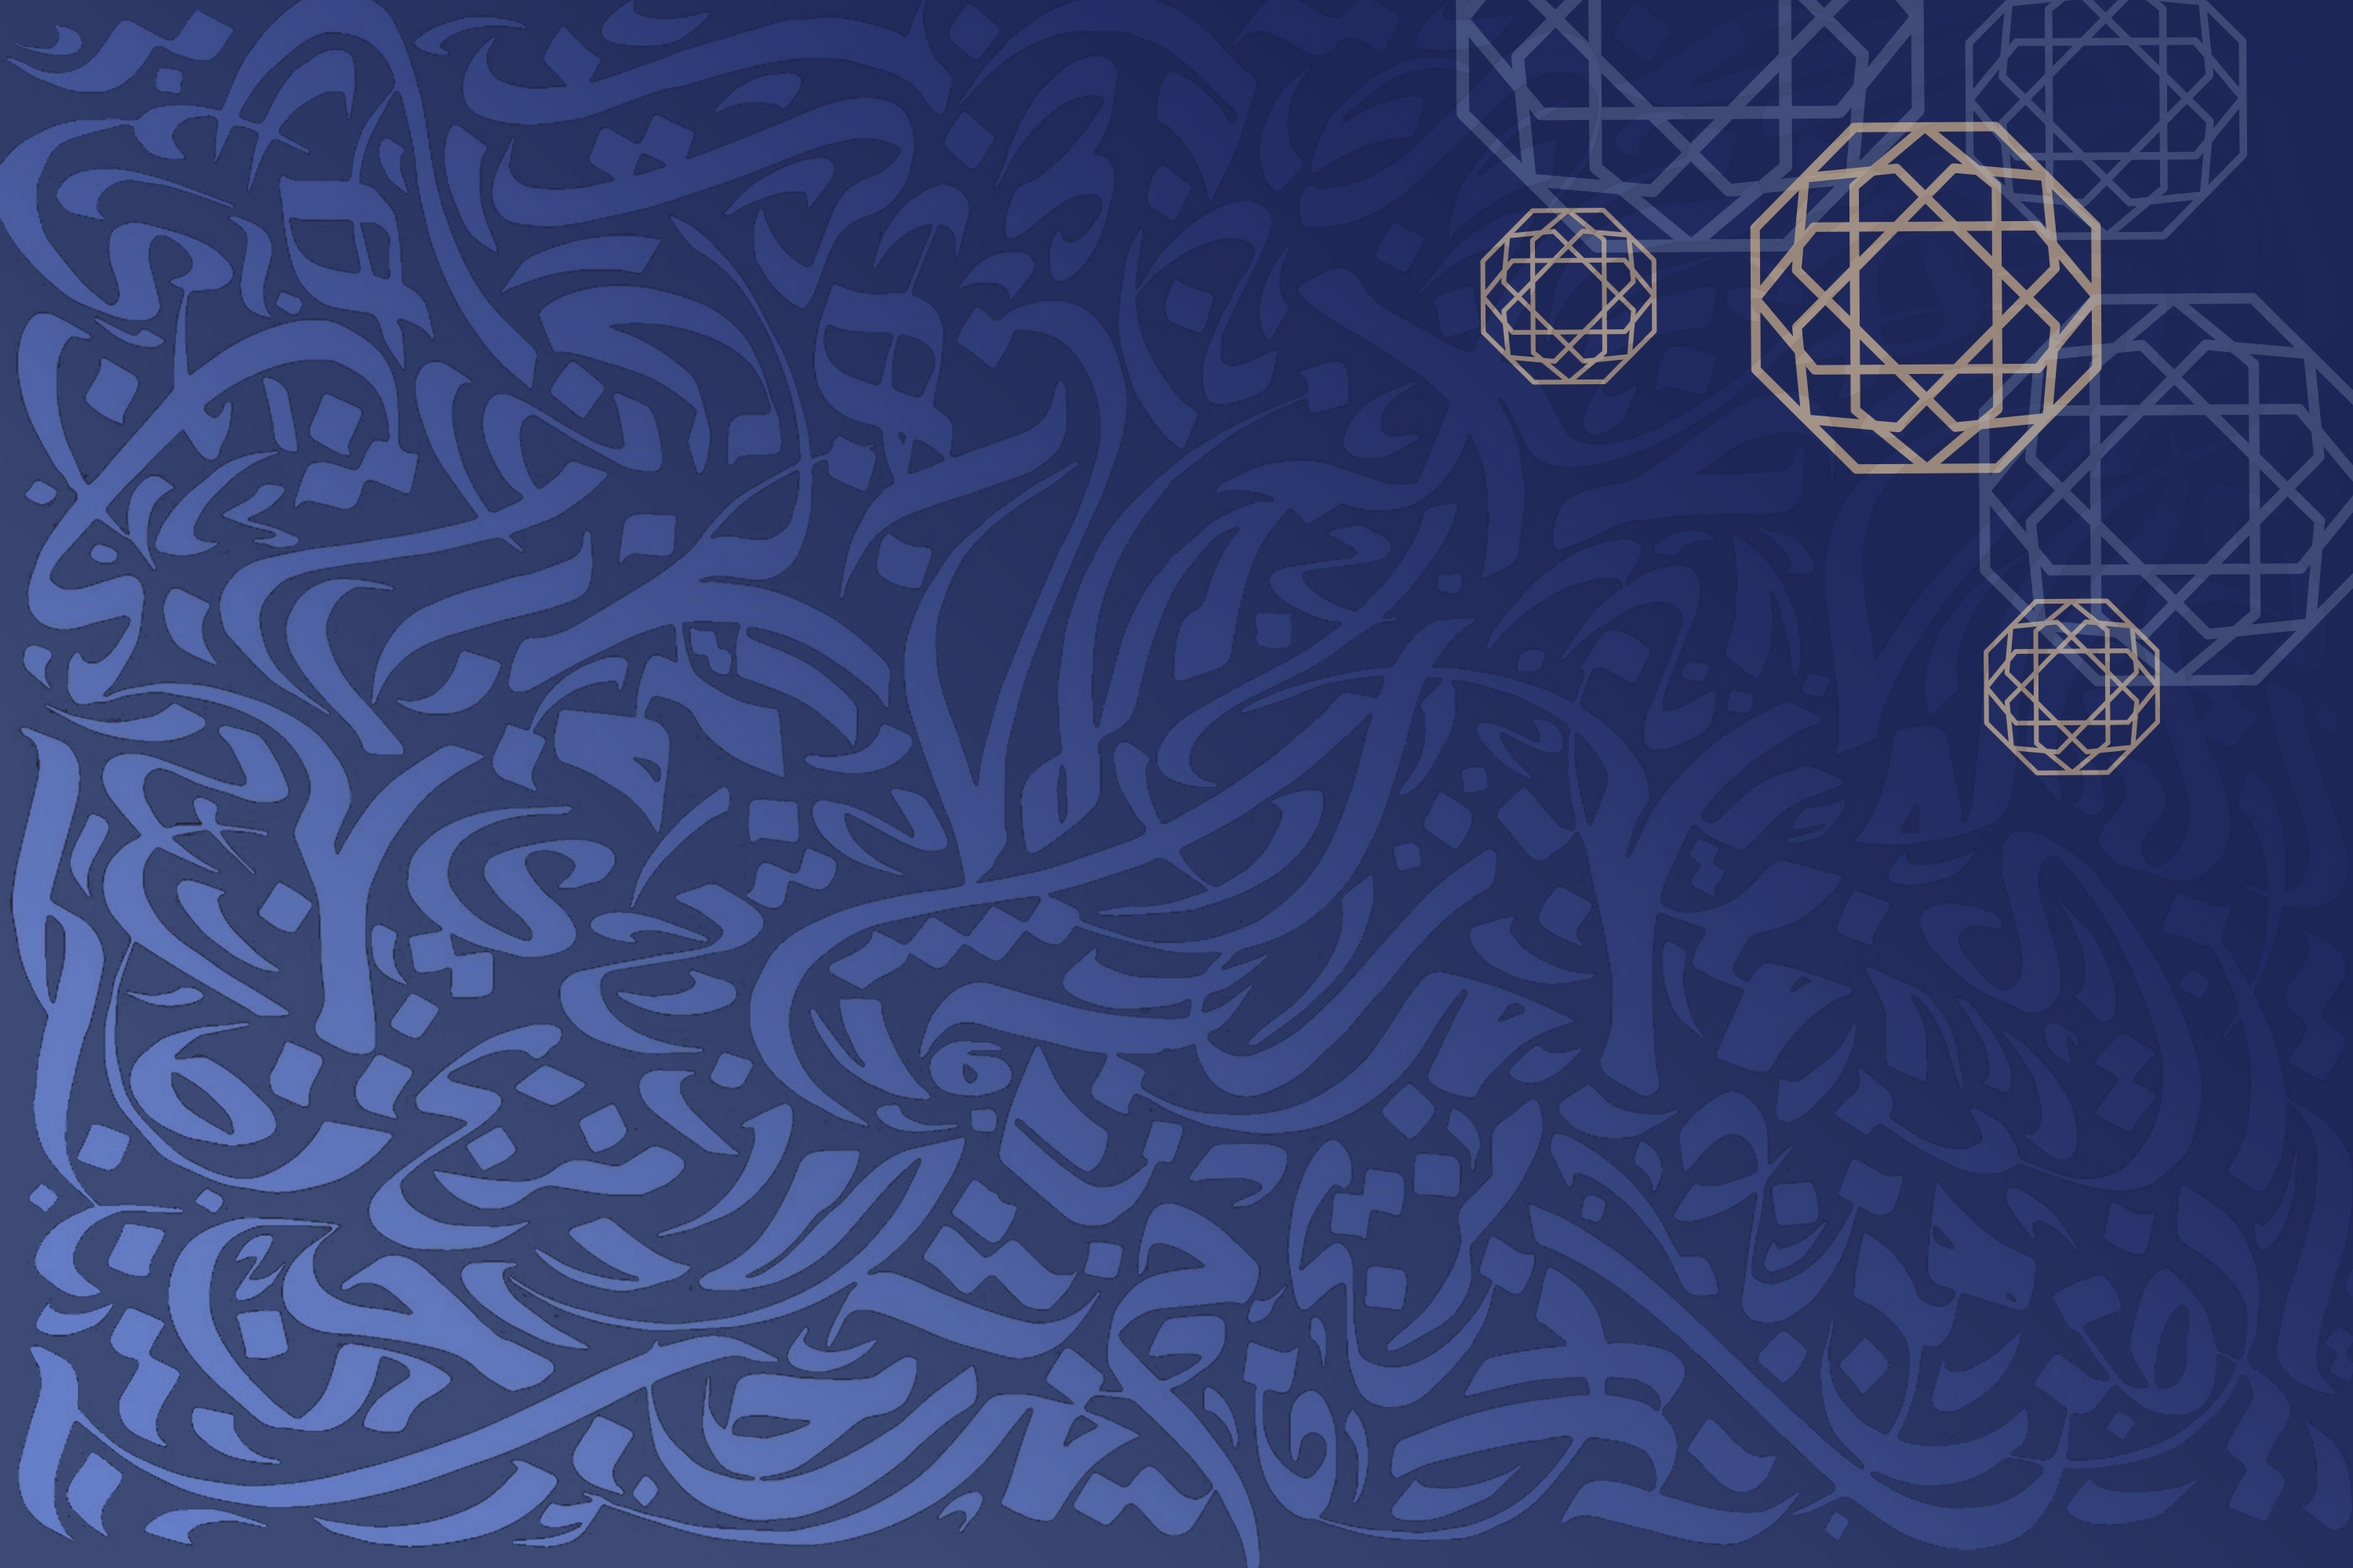
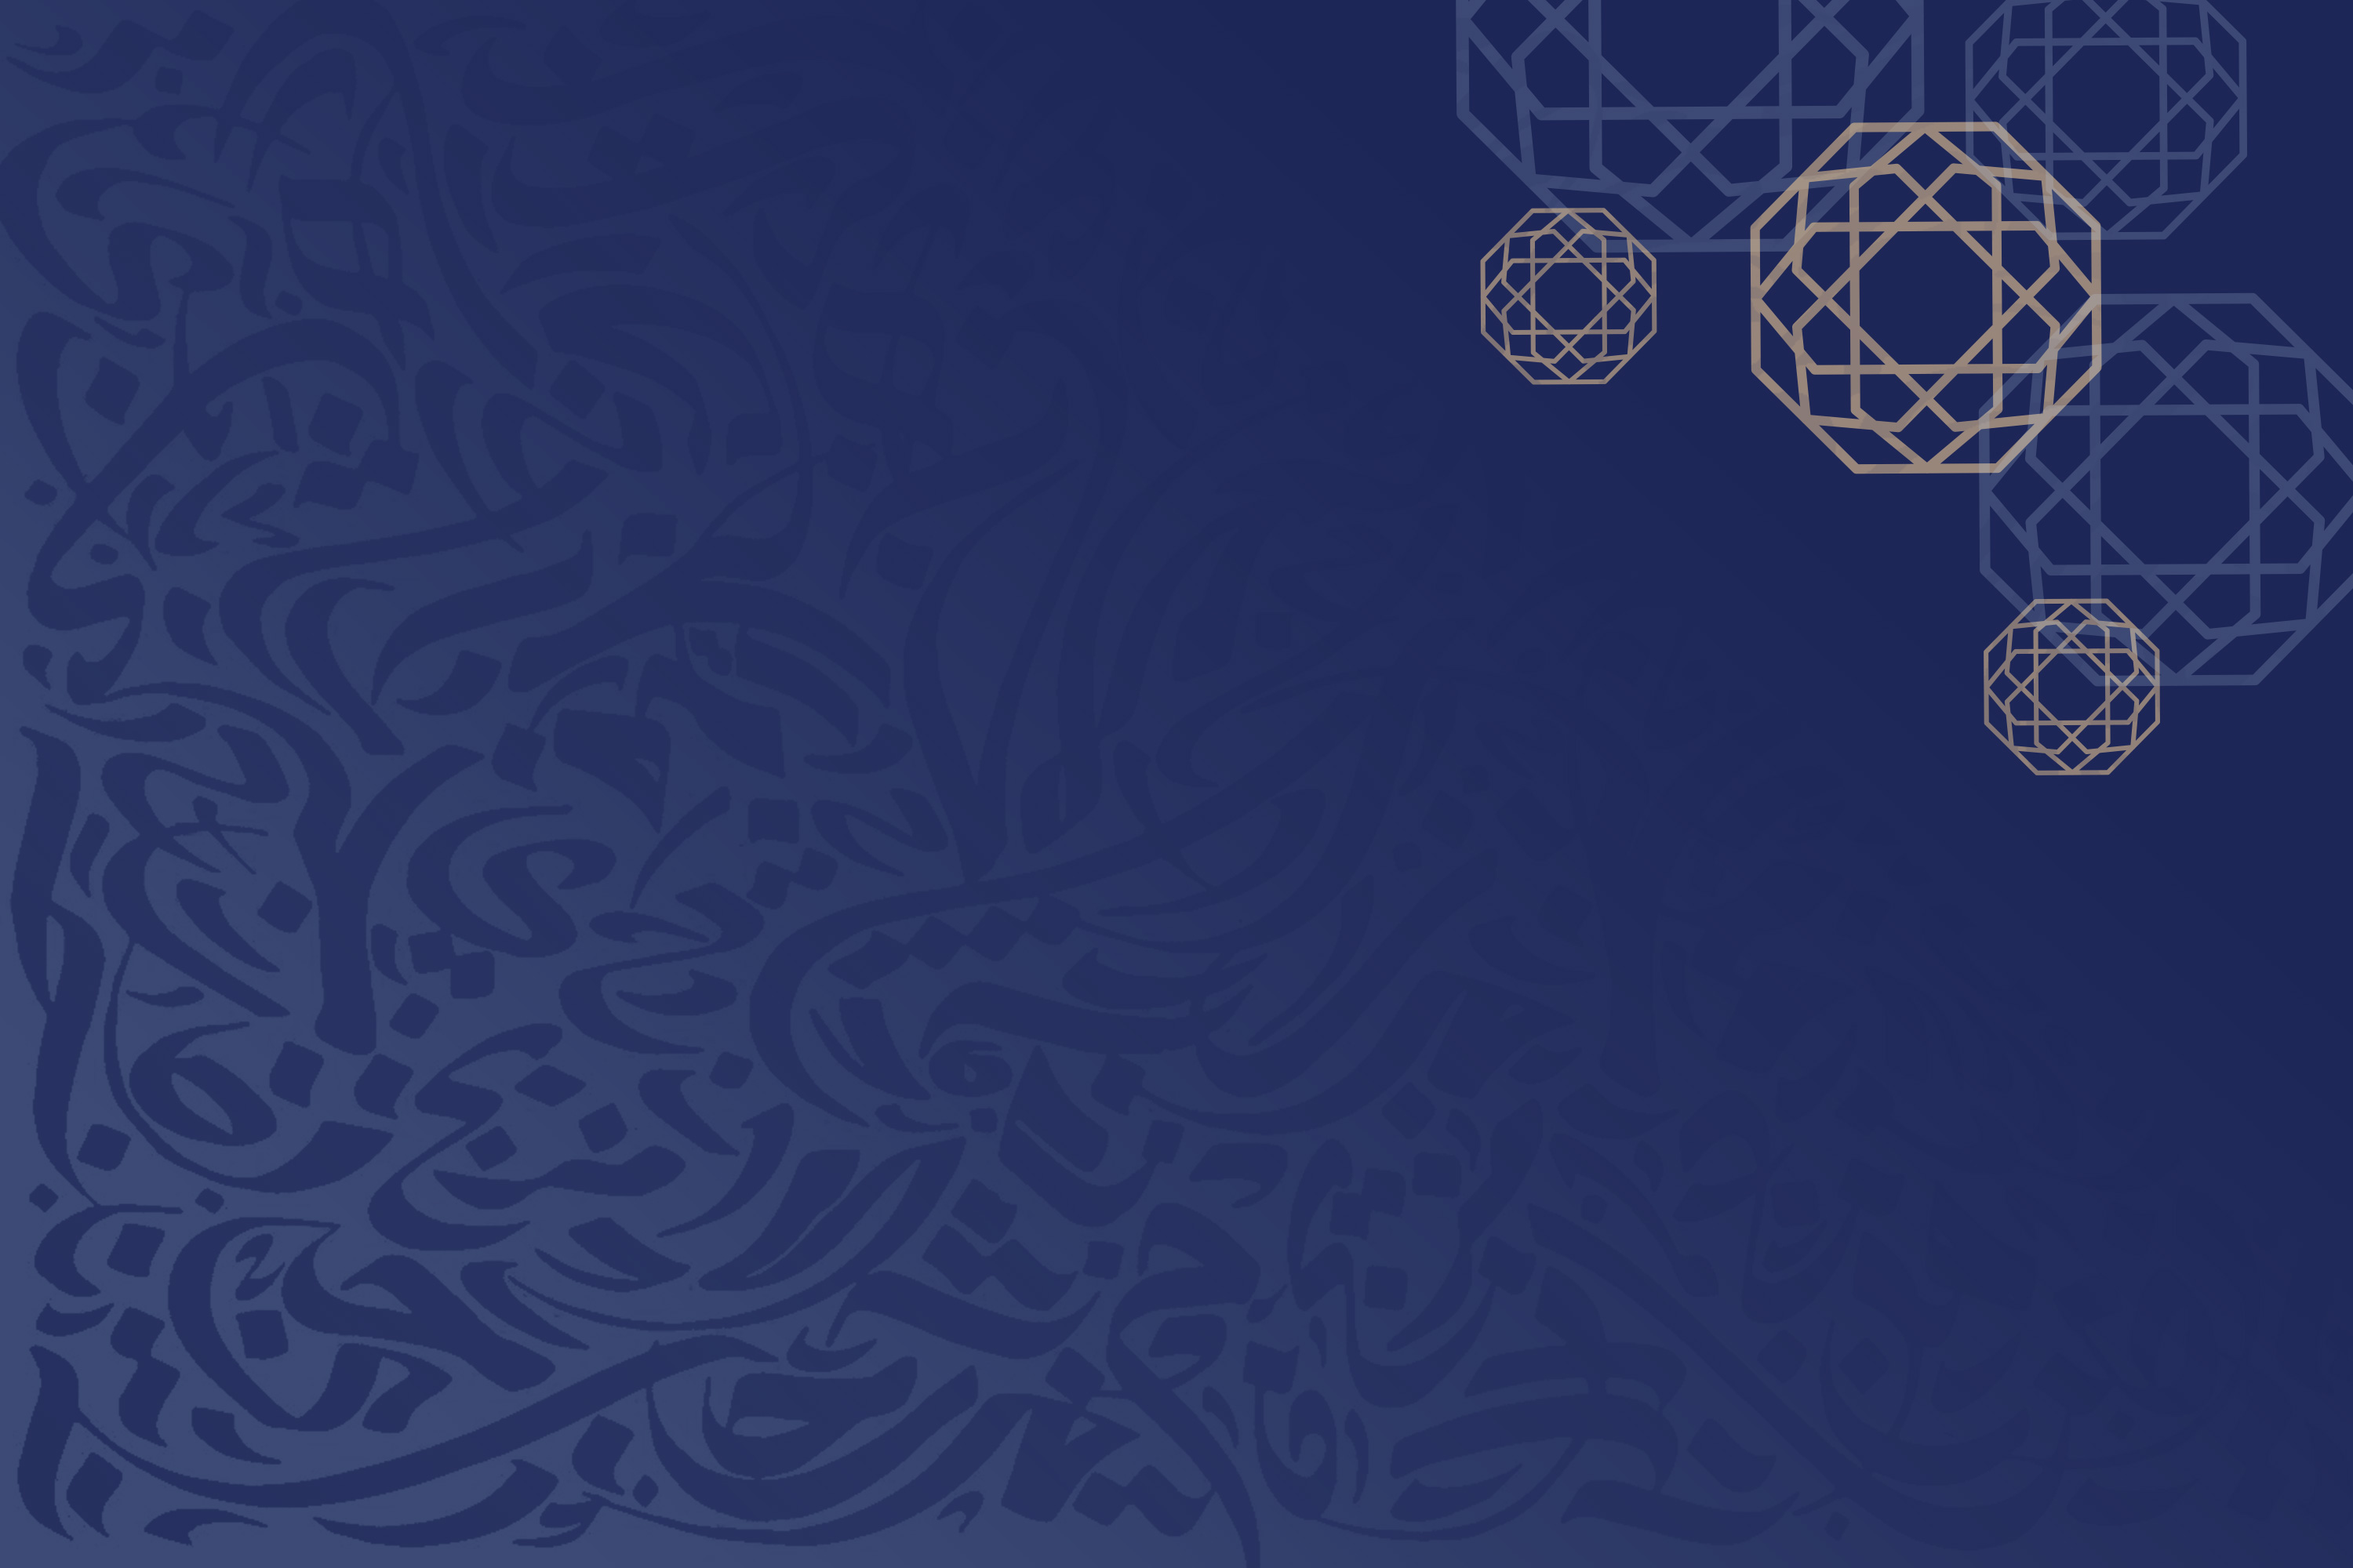
Stay Tuned page

diff --git a/css/StayTuned.css b/css/StayTuned.css
@@ -1,0 +1,198 @@
+#stay-tuned {
+    height: 140vh; 
+    display: flex; 
+    justify-content: center;
+    flex-direction: column;
+    column-gap: 2rem;
+}
+
+.container {
+    margin-top: 5%;
+}
+#stay-tuned h1 { 
+    font-weight: bolder;
+    color:aliceblue;
+    font-family: Rubik;
+    font-size: 11vh;
+    margin-bottom: 0vh;
+}
+#countdown {
+    color:aliceblue;
+     font-family: Rubik;
+     font-size: 9vh;
+     margin-bottom: 10vh;
+}
+
+.col-md-6 {
+    scale: 1.5;
+}
+
+.btnR {
+    display: inline-block;
+    font-family: inherit;
+    font-size: 1rem;
+    font-weight: 500;
+    line-height: 1.5;
+    text-align: center;
+    vertical-align: middle;
+    white-space: nowrap;
+    user-select: none;
+    outline: none;
+    border: none;
+    border-radius: 0.25rem;
+    text-transform: unset;
+    height: 10vw;
+    overflow: hidden;
+    padding: 0;
+    width: 15vw;
+    height: 7vh;
+    border-radius: 7vh;
+    background-color: #225c97;
+    transition: all .2s;
+    margin-top: 1vh;
+    margin-bottom: 4vh;
+}
+
+.image-row .col-md-6 {
+    margin-left: 100vh; 
+}
+
+
+.btnR .textR {
+	transition: all .2s;
+	color: #fff;
+}
+
+.btnR:hover {
+	background-color: #cdd9e4;
+	color: #000;
+}
+
+.btnR:hover .textR {
+	transform: translateX(5px) scale(1.1);
+	color: black;
+}
+
+.textR {
+	position: absolute;
+	display: flex;
+	align-items: center;
+}
+
+.btnR-inline {
+	display: inline-flex;
+	align-items: center;
+	justify-content: center;
+	column-gap: 0.5rem;
+}
+
+
+:root {
+	--bg: #e3e4e8;
+	--fg: #2e3138;
+	--primary: #255ff4;
+}
+
+#remindertext {
+    color: #fff;
+}
+.hourglass, .hourglass:before, .hourglass:after {
+	animation-duration: 2s;
+	animation-iteration-count: infinite;
+}
+.hourglass {
+	--polygonH: polygon(0% 0%,100% 0%,100% 5.55%,95% 5.55%,95% 28%,60% 46%,60% 54%,95% 72%,95% 94.45%,100% 94.45%,100% 100%,0% 100%,0% 94.45%,5% 94.45%,5% 72%,40% 54%,40% 46%,5% 28%,5% 5.55%,0% 5.55%);
+	animation-name: flip;
+	animation-timing-function: ease-in-out;
+	background-image: linear-gradient(var(--primary) 0.5em,#737a8c55 0.5em 8.5em,var(--primary) 8.5em);
+	clip-path: var(--polygonH);
+	-webkit-clip-path: var(--polygonH);
+	overflow: hidden;
+	position: relative;
+	width: 5em;
+	height: 9em;
+	z-index: 0;
+    margin: 0 auto;
+}
+.hourglass:before, .hourglass:after {
+	animation-timing-function: linear;
+	content: "";
+	display: block;
+	position: absolute;
+}
+.hourglass:before {
+	--polygonB1: polygon(0% 0%,100% 0%,100% 24%,50% 47%,50% 47%,50% 47%,50% 47%,50% 47%,50% 47%,50% 47%,50% 47%,0% 24%);
+	--polygonB2: polygon(0% 4%,100% 4%,100% 24%,55% 45%,55% 100%,55% 100%,55% 100%,45% 100%,45% 100%,45% 100%,45% 45%,0% 24%);
+	--polygonB3: polygon(0% 24%,100% 24%,100% 24%,55% 45%,55% 80%,100% 100%,100% 100%,0% 100%,0% 100%,45% 80%,45% 45%,0% 24%);
+	--polygonB4: polygon(45% 45%,55% 45%,55% 45%,55% 45%,55% 58%,100% 76%,100% 100%,0% 100%,0% 76%,45% 58%,45% 45%,45% 45%);
+	--polygonB5: polygon(50% 53%,50% 53%,50% 53%,50% 53%,50% 53%,100% 76%,100% 100%,0% 100%,0% 76%,50% 53%,50% 53%,50% 53%);
+	animation-name: fill;
+	background-color: var(--fg);
+	background-size: 100% 3.6em;
+	clip-path: var(--polygonB1);
+	-webkit-clip-path: var(--polygonB1);
+	top: 0.5em;
+	left: 0.5em;
+	width: 4em;
+	height: 8em;
+	z-index: 1;
+}
+.hourglass:after {
+	animation-name: glare;
+	background:
+		linear-gradient(90deg,#0000 0.5em,#0003 0.5em 1.5em,#0000 1.5em 3.5em,#fff3 3.5em 4.5em,#fff0 4.5em 6.5em,#0003 6.5em 7.5em,#0000 7.5em) 0 0 / 100% 0.5em,
+		linear-gradient(90deg,#0000 0.75em,#0003 0.75em 1.25em,#0000 1.25em 3.75em,#fff3 3.75em 4.25em,#fff0 4.25em 6.75em,#0003 6.75em 7.25em,#0000 7.25em) 0 0.5em / 100% 8em,
+		linear-gradient(90deg,#0000 0.5em,#0003 0.5em 1.5em,#0000 1.5em 3.5em,#fff3 3.5em 4.5em,#fff0 4.5em 6.5em,#0003 6.5em 7.5em,#0000 7.5em) 0 100% / 100% 0.5em;
+	background-repeat: repeat-x;
+	top: 0;
+	left: -3em;
+	width: 200%;
+	height: 100%;
+	z-index: 2;
+}
+/* Animations */
+@keyframes fill {
+	from {
+		clip-path: var(--polygonB1);
+		-webkit-clip-path: var(--polygonB1);
+	}
+	10% {
+		clip-path: var(--polygonB2);
+		-webkit-clip-path: var(--polygonB2);
+	}
+	45% {
+		clip-path: var(--polygonB3);
+		-webkit-clip-path: var(--polygonB3);
+	}
+	80% {
+		clip-path: var(--polygonB4);
+		-webkit-clip-path: var(--polygonB4);
+	}
+	85%, to {
+		clip-path: var(--polygonB5);
+		-webkit-clip-path: var(--polygonB5);
+	}
+}
+@keyframes glare {
+	from, 90% {
+		transform: translateX(0);
+	}
+	to {
+		transform: translateX(3em);
+	}
+}
+@keyframes flip {
+	from, 90% {
+		transform: rotate(0);
+	}
+	to {
+		transform: rotate(180deg);
+	}
+}
+/* Dark mode */
+@media (prefers-color-scheme: dark) {
+	:root {
+		--bg: #17181c;
+		--fg: #c7cad1;
+	}
+}

diff --git a/index.html b/index.html
@@ -39,6 +39,7 @@
     <link rel="stylesheet" href="./css/sponsors.css">
     <link rel="stylesheet" href="./css/aboutus.css">
     <link rel="stylesheet" href="./css/pre.css">
+    <link rel="stylesheet" href="./css/StayTuned.css">
     <link href='https://unpkg.com/boxicons@2.1.4/css/boxicons.min.css' rel='stylesheet'>
 </head>
 
@@ -49,7 +50,7 @@
     <section id="Navbar">
         <header class="header1" id="header">
             <nav class="navbar1 container1">
-                <a href="./index.html" class="brand1"><img style="filter: invert(); transform: scale(.6)" src="./assets/images/navlog.png"></a>
+                <a href="./index.html" class="brand1"><img style="transform: scale(.6)" src="./assets/images/navlog.png"></a>
                 <div class="burger1 nav-toggle" id="burger">
                     <span class="burger1-line"></span>
                     <span class="burger1-line"></span>
@@ -209,7 +210,39 @@
 
 
     <!-- Stay Tuned HERE -->
-       
+    <section id="stay-tuned" style="background: url(./assets/images/site.jpg); background-size: cover;">
+        <div class="container text-center">
+            <h1>Stay Tuned...</h1>
+            <div class="hourglass" style="scale: 0.7;"></div>
+            <div id="countdown" class="mb-4"></div>
+            <div class="row justify-content-center align-items-center">
+                <div class="col-md-6">
+                    <h4 id="remindertext" class="d-inline-block mb-3">Fill this form to get reminders for the event</h4>
+                    <a href="https://docs.google.com/forms/d/e/1FAIpQLSdxldmnl_BZ_8JDX3B47-x0YyYrdsrkbKBGEECpuya5zUdmxg/viewform?usp=sf_link" target="_blank" class="d-inline-block ml-3">
+                        <button class="btnR btnR-darken btnR-inline">
+                            <div class="textR">
+                                Pre-Register Now
+                                <i class="bx bx-right-arrow-alt"></i>
+                            </div>
+                        </button>
+                    </a>
+                </div>
+            </div>    
+            <div class="row justify-content-center align-items-center">
+                <div class="col-md-6">
+                    <div class="row">
+                        <div class="col-md-6" style="padding: 5%;scale: 100%;">
+                            <img src="./assets/images/Instadeep.png" class="img-fluid mx-auto d-block mb-3" alt="Instadeep Logo">
+                        </div>
+                        <div class="col-md-6" style="padding: 5%;scale: 100%;">
+                            <img src="./assets/images/IEEE.png" class="img-fluid mx-auto d-block mb-3" alt="IEEE Logo">
+                        </div>
+                    </div>
+                </div>
+            </div>
+        </div>
+    </section>
+
     <!--  -->
 
     <!-- TO BE CHANGED-->
@@ -478,6 +511,8 @@
     <!-- Custom js -->
     <script type="text/javascript" src="assets/js/about.js"></script>
     <script src="./assets/js/pre.js" charset="utf-8"></script>
+    <script src="./assets/js/StayTuned.js" charset="utf-8"></script>
+
 </body>
 
 </html>

diff --git a/css/hero.css b/css/hero.css
@@ -1,18 +1,18 @@
 @import url("https://fonts.googleapis.com/css2?family=Rubik:wght@400;500;600;700&display=swap");
 
 :root {
-	--color-white-100: #fafafa;
+	--color-white-100: #000;
 	--color-white-200: #e4e6e7;
 	--color-white-300: #c9cccf;
 	--color-white-400: #a1a6aa;
 	--color-white-500: #798086;
 	--color-white-600: #555a5e;
-	--color-black-300: #0083ef;
-	--color-black-400: #0083ef;
-	--color-black-500: #0083ef;
-	--color-black-600: #0083ef;
-	--color-black-700: #0083ef;
-	--color-black-800: #0083ef;
+	--color-black-300: #ffffff;
+	--color-black-400: #ffffff;
+	--color-black-500: #ffffff;
+	--color-black-600: #ffffff;
+	--color-black-700: #ffffff;
+	--color-black-800: #ffffff;
 	--color-blue-100: #dcebfe;
 	--color-blue-200: #bedbfe;
 	--color-blue-300: #91c3fd;
@@ -1029,20 +1029,12 @@ body{
 	.logo a {
 		color: #fff;
 	}
-	.brand1{
-		/*color: #333333;*/
-		/*filter: invert();*/
-		filter: brightness(0.6);
-	}
+	
 	.banner-image{
 		/*filter: invert();*/
 		filter: brightness(0.6);
 	}
-
-	.banner-inner{
-		/*filter: invert();*/
-		filter: brightness(0.6);
-	}
+	
 	.menu1 {
 		/*filter: invert();*/
 		filter: brightness(0.6);

diff --git a/assets/js/StayTuned.js b/assets/js/StayTuned.js
@@ -1,0 +1,22 @@
+//Stay Tuned code 
+var countDownDate = new Date("May 18, 2024 08:30:00").getTime();
+
+var x = setInterval(function() {
+    var now = new Date().getTime();
+    var distance = countDownDate - now;
+    var days = Math.floor(distance / (1000 * 60 * 60 * 24));
+    var hours = Math.floor((distance % (1000 * 60 * 60 * 24)) / (1000 * 60 * 60));
+    var minutes = Math.floor((distance % (1000 * 60 * 60)) / (1000 * 60));
+    var seconds = Math.floor((distance % (1000 * 60)) / 1000);
+
+    // Display the countdown
+    document.getElementById("countdown").innerHTML = "<div>" + days + "d " + hours + "h "
+    + minutes + "m " + seconds + "s </div>";
+
+    document.getElementById("hourglass").style.transform = `rotate(180deg)`;
+    // If the countdown is over, display a message
+    if (distance < 0) {
+        clearInterval(x);
+        document.getElementById("countdown").innerHTML = "EXPIRED";
+    }
+}, 1000);
